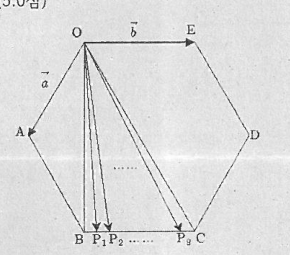
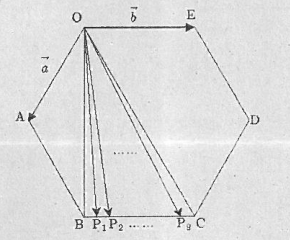
fix(geometry): restore 2020 Maesan response labels and q15 crop

diff --git a/archive/_generated/source-only/geometry-20261004/20_매산고_1학기_기말_고3_기하.js b/archive/_generated/source-only/geometry-20261004/20_매산고_1학기_기말_고3_기하.js
@@ -233,7 +233,7 @@ window.questionBank = [
     "tags": [
       "단답형"
     ],
-    "content": "두 초점 $F(0,3),F'(0,-3)$으로부터 거리의 차가 $4$인 쌍곡선의 방정식은 $\\dfrac{x^2}{a}-\\dfrac{y^2}{b}=-1$이다. $a+b$의 값을 구하시오. [4.0점]",
+    "content": "&lt;단답형1&gt; 두 초점 $F(0,3),F'(0,-3)$으로부터 거리의 차가 $4$인 쌍곡선의 방정식은 $\\dfrac{x^2}{a}-\\dfrac{y^2}{b}=-1$이다. $a+b$의 값을 구하시오. [4.0점]",
     "choices": []
   },
   {
@@ -242,7 +242,7 @@ window.questionBank = [
     "tags": [
       "단답형"
     ],
-    "content": "두 점 $A,B$의 위치벡터를 각각 $\\vec a,\\vec b$라 할 때, 선분 $AB$를 $2:1$로 외분하는 점의 위치벡터를 나타내면 $m\\vec a+n\\vec b$이다. 이때, $m^2+n^2$의 값을 구하시오. [5.0점]",
+    "content": "&lt;단답형2&gt; 두 점 $A,B$의 위치벡터를 각각 $\\vec a,\\vec b$라 할 때, 선분 $AB$를 $2:1$로 외분하는 점의 위치벡터를 나타내면 $m\\vec a+n\\vec b$이다. 이때, $m^2+n^2$의 값을 구하시오. [5.0점]",
     "choices": []
   },
   {
@@ -251,7 +251,7 @@ window.questionBank = [
     "tags": [
       "단답형"
     ],
-    "content": "좌표평면 위의 두 점 $A(-2,0),B(2,2)$와 직선 $y=x-1$ 위를 움직이는 점 $P$에 대하여 $|\\overrightarrow{AP}+\\overrightarrow{BP}|$의 최솟값을 $a$라고 할 때, $a^2$를 구하시오. [6.0점]",
+    "content": "&lt;단답형3&gt; 좌표평면 위의 두 점 $A(-2,0),B(2,2)$와 직선 $y=x-1$ 위를 움직이는 점 $P$에 대하여 $|\\overrightarrow{AP}+\\overrightarrow{BP}|$의 최솟값을 $a$라고 할 때, $a^2$를 구하시오. [6.0점]",
     "choices": []
   },
   {
@@ -261,7 +261,7 @@ window.questionBank = [
       "서술형",
       "도형"
     ],
-    "content": "두 초점 $F,F'$이 $x$축 위에 있는 쌍곡선 $\\dfrac{x^2}{4}-\\dfrac{y^2}{a}=1$ 위의 점 $P$가 $\\overline{FP}=11$을 만족시킨다. 점 $F$에서 직선 $PF'$에 내린 수선의 발 $H$에 대하여 $\\overline{FH}=2\\sqrt{10}$일 때, 다음을 구하시오.\n(1) $\\overline{F'H}$의 길이 [4점]\n(2) 상수 $a$의 값 [6점]",
+    "content": "&lt;서술형1&gt; 두 초점 $F,F'$이 $x$축 위에 있는 쌍곡선 $\\dfrac{x^2}{4}-\\dfrac{y^2}{a}=1$ 위의 점 $P$가 $\\overline{FP}=11$을 만족시킨다. 점 $F$에서 직선 $PF'$에 내린 수선의 발 $H$에 대하여 $\\overline{FH}=2\\sqrt{10}$일 때, 다음을 구하시오.\n(1) $\\overline{F'H}$의 길이 [4점]\n(2) 상수 $a$의 값 [6점]",
     "choices": [],
     "image": "assets/images/20_매산고_1학기_기말_고3_기하/q19.png"
   },
@@ -271,7 +271,7 @@ window.questionBank = [
     "tags": [
       "서술형"
     ],
-    "content": "좌표평면에서 점 $A(9,0)$와 원 $(x-3)^2+(y-4)^2=40$ 위의 점 $P$에 대하여 다음 물음에 답하시오.\n(1) 원의 중심을 $B$라 할 때, $\\overrightarrow{OA}+\\overrightarrow{OB}$의 성분을 구하시오. [3.0점]\n(2) $|\\overrightarrow{OA}+\\overrightarrow{OP}|$의 최댓값을 $M$이라고 할 때, $M^2$의 값을 구하시오. (단, $O$는 원점이다.) [7.0점]",
+    "content": "&lt;서술형2&gt; 좌표평면에서 점 $A(9,0)$와 원 $(x-3)^2+(y-4)^2=40$ 위의 점 $P$에 대하여 다음 물음에 답하시오.\n(1) 원의 중심을 $B$라 할 때, $\\overrightarrow{OA}+\\overrightarrow{OB}$의 성분을 구하시오. [3.0점]\n(2) $|\\overrightarrow{OA}+\\overrightarrow{OP}|$의 최댓값을 $M$이라고 할 때, $M^2$의 값을 구하시오. (단, $O$는 원점이다.) [7.0점]",
     "choices": []
   }
 ];
